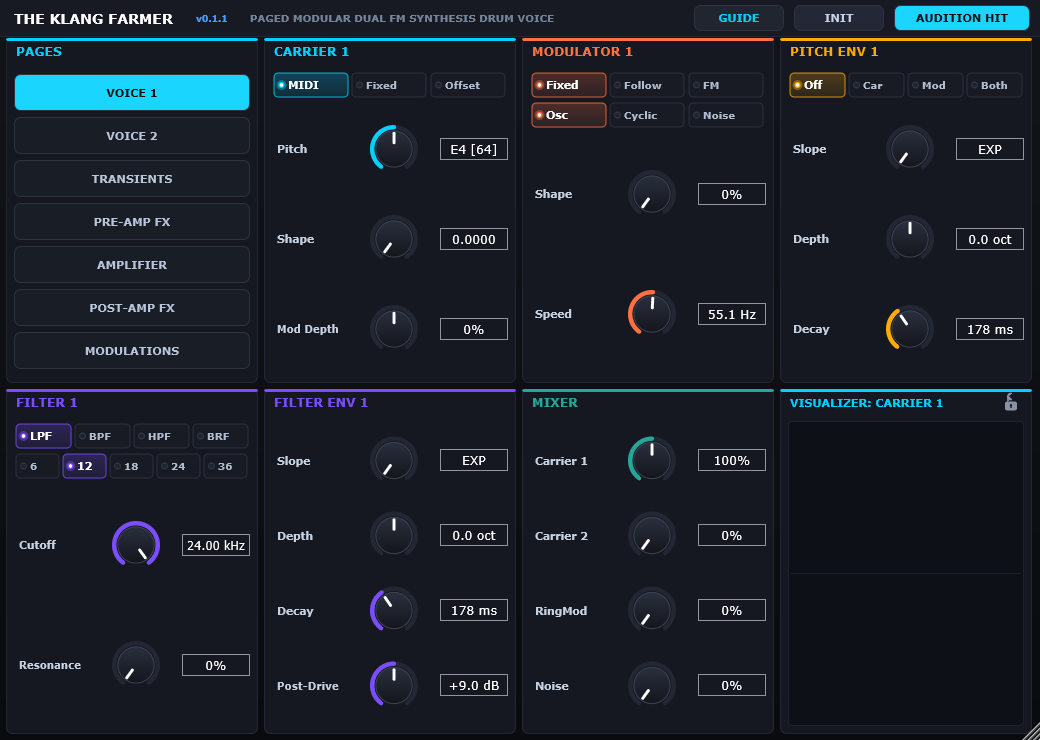
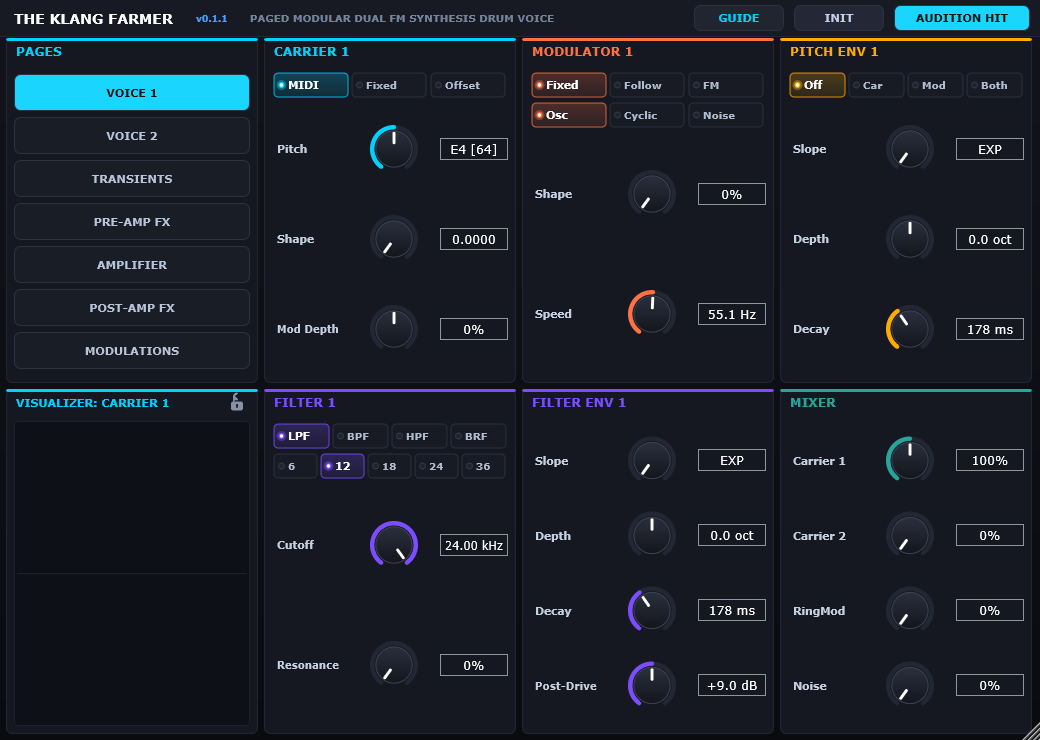
Move Visualizer to Slot 5 (bottom-left) to anchor both row start slots

diff --git a/source/PluginEditor.cpp b/source/PluginEditor.cpp
@@ -3044,15 +3044,22 @@ void TheKlangFarmerAudioProcessorEditor::updatePageLayout() {
             break;
     }
 
-    for (int i = 0; i < 6; ++i) {
+    vizCard.setBounds(getSlotBounds(4));
+    vizCard.setVisible(true);
+
+    for (int i = 0; i < 3; ++i) {
         if (slotComponents[i]) {
             slotComponents[i]->setBounds(getSlotBounds(i + 1));
             slotComponents[i]->setVisible(true);
         }
     }
 
-    vizCard.setBounds(getSlotBounds(7));
-    vizCard.setVisible(true);
+    for (int i = 3; i < 6; ++i) {
+        if (slotComponents[i]) {
+            slotComponents[i]->setBounds(getSlotBounds(i + 2));
+            slotComponents[i]->setVisible(true);
+        }
+    }
 
     if (!vizCard.getIsLocked()) {
         switch (currentPage) {

diff --git a/spec.md b/spec.md
@@ -15,8 +15,8 @@
     5. `Amplifier`
     6. `Post-Amp FX`
     7. `Modulations`
-  - **Slot 8 (Bottom Right)**: Fixed **Visualization Module** dynamically presenting tabbed real-time oscilloscopes and frequency-response plots for the active page's modules.
-  - **Slots 2–7**: Dynamically populated with active module cards, multi-instance FX slots, and brushed-aluminum blank plates according to the selected page.
+  - **Slot 5 (Bottom Left)**: Fixed **Visualization Module** dynamically presenting real-time oscilloscopes, logarithmic Bode plots, transfer curves, and auto-tracking with padlock lock toggle.
+  - **Slots 2–4 & Slots 6–8**: Dynamically populated with active module cards, multi-instance FX slots, and brushed-aluminum blank plates according to the selected page.
 - **Multi-Instance FX Slots (8 Independent FX Blocks)**:
   - Both the **Pre-Amp FX** rack (Slots 1–4) and **Post-Amp FX** rack (Slots 1–4) allow **any effect to be instantiated into any slot without restriction**.
   - A user can load up to 8 instances of the exact same effect (e.g., 8 cascaded Wavefolders) or any mix of the 13 available processors.

diff --git a/README.md b/README.md
@@ -128,7 +128,7 @@ The 8-slot, 2x4 layout is organized as follows:
 | :---: | :---: | :---: | :---: |
 | **Navigation Module** *(Fixed)* | Active Page Card | Active Page Card | Active Page Card |
 | **Slot 5 (Bottom Left)** | **Slot 6** | **Slot 7** | **Slot 8 (Bottom Right)** |
-| Active Page Card | Active Page Card | Active Page Card | **Visualizer Module** *(Fixed)* |
+| **Visualizer Module** *(Fixed)* | Active Page Card | Active Page Card | Active Page Card |
 
 ### Navigation Pages
 1. **Voice 1**: Pitch Envelope 1, Modulator 1, Carrier 1, Filter 1, Filter Env 1
